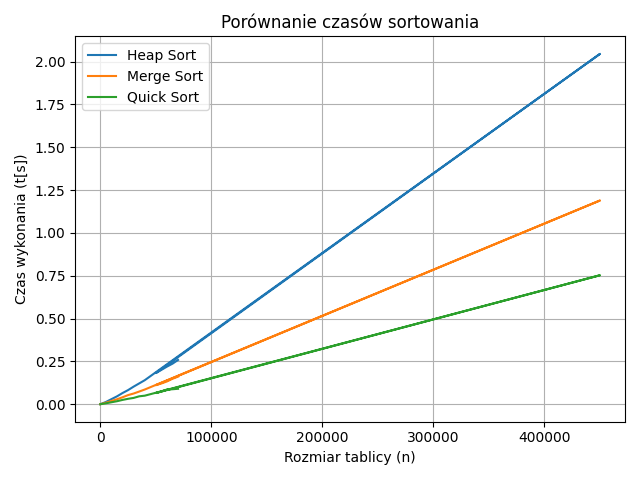
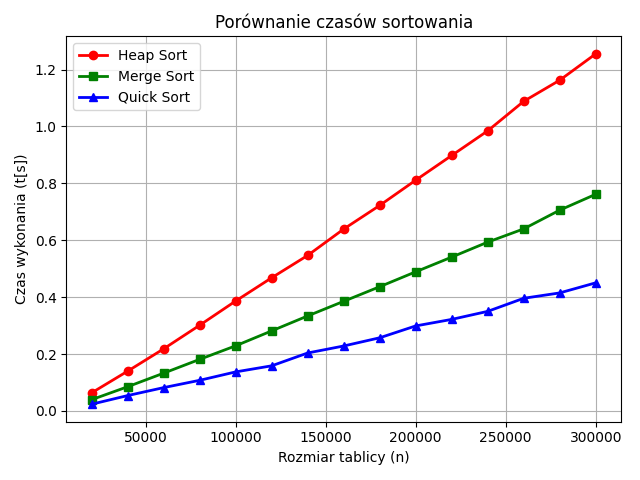
pc

diff --git a/charts4.py b/charts4.py
@@ -5,7 +5,7 @@ from random_numbers_generator import aShapeArrayGenerator, arrayGenerator
 import sys
 sys.setrecursionlimit(10**5)
 
-sizes = [50_000 + i * 50_000 for i in range(15)]
+sizes = [5000 + i * 5000 for i in range(15)]
 times_right_pivot = []
 times_mid_pivot = []
 times_random_pivot = []
@@ -30,6 +30,5 @@ plt.ylabel('Czas wykonania (t[s])')
 plt.title('Porównanie czasów sortowania Quick Sort w zależności od wyboru pivota')
 plt.legend()
 plt.grid(True)
-plt.yscale('log')  # opcjonalnie – jeśli różnice są duże
 plt.tight_layout()
 plt.show()

diff --git a/charts3.py b/charts3.py
@@ -7,7 +7,7 @@ from sorts.merge_sort import mergeSort
 from sorts.selection_sort import selectionSort
 import sys
 sys.setrecursionlimit(10**5)
-sizes = [2000 + i * 2000 for i in range(15)]
+sizes = [3000 + i * 3000 for i in range(15)]
 def plot_all_types_in_one_figure(sizes, results):
     import matplotlib.pyplot as plt
 

diff --git a/charts2.py b/charts2.py
@@ -9,7 +9,7 @@ from sorts.quick_sort_recursive import quickSortRecursive
 
 
 
-sizes = [20000+ i * 20_000 for i in range(15)]
+sizes = [20000+ i * 20000 for i in range(15)]
 times_heap = []
 times_merge = []
 times_quick = []

diff --git a/charts1.py b/charts1.py
@@ -9,7 +9,7 @@ from sorts.selection_sort import selectionSort
 
 
 
-sizes = [500 + i * 1000 for i in range(15)]
+sizes = [5000 + i * 1000 for i in range(15)]
 times_bubble = []
 times_insertion = []
 times_selection = []
